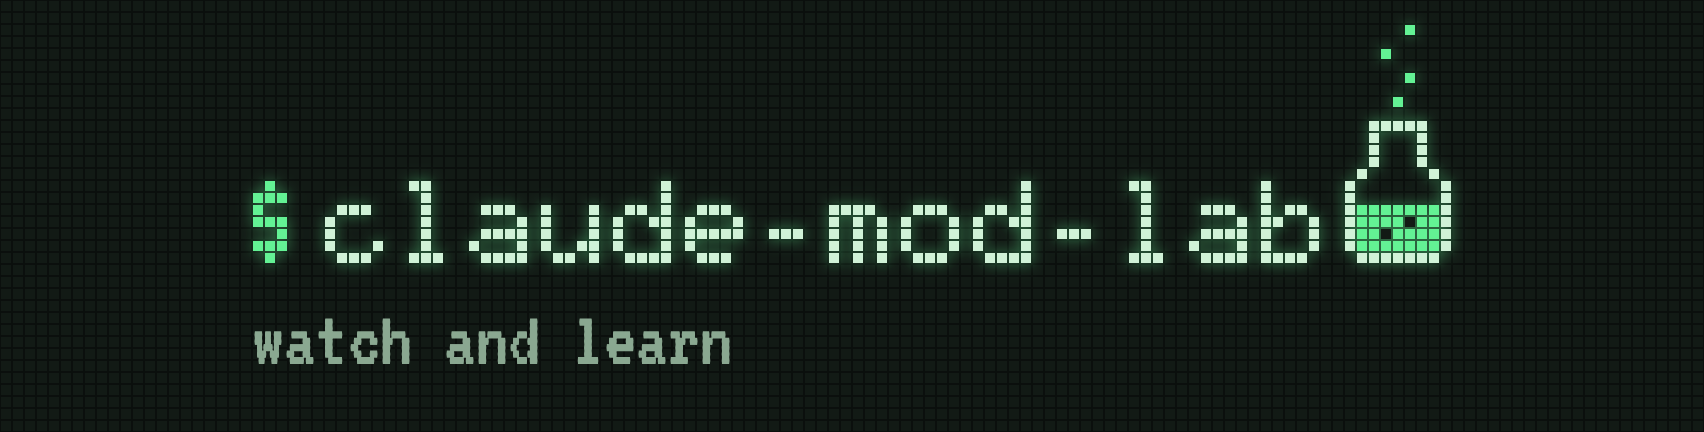
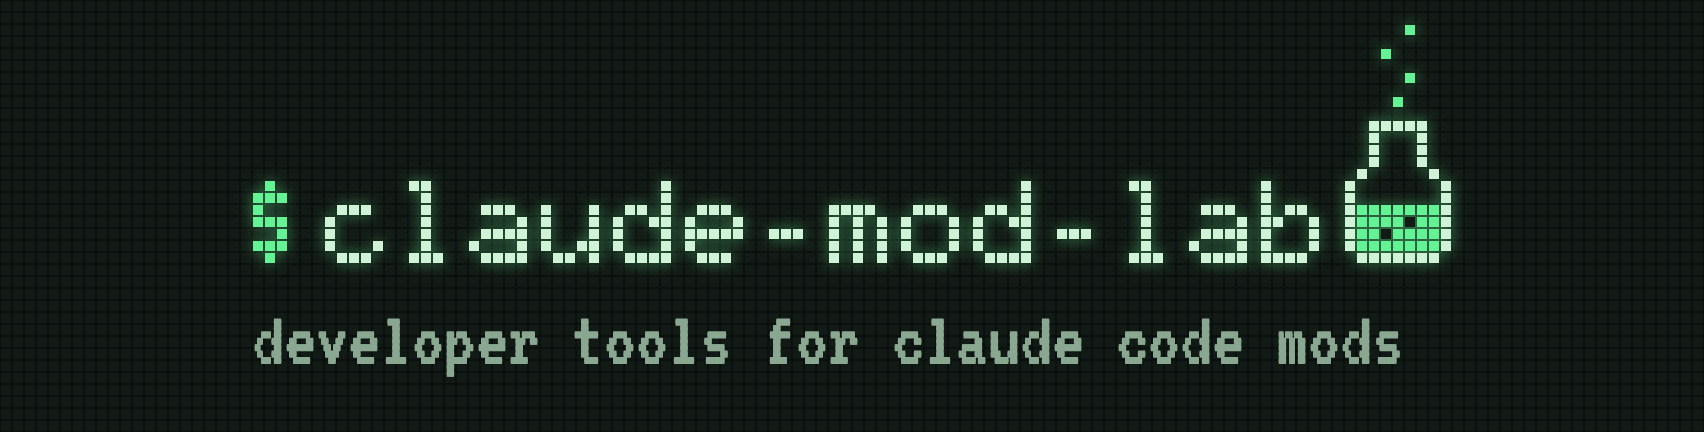
docs: update image assets

Changed region(s): [[0.1244, 0.7222, 0.8398, 0.8727]]

diff --git a/README.md b/README.md
@@ -5,7 +5,7 @@
 </picture>
 </p>
 
-A comprehensive workbench for Claude Code mods. Explore the mod API, trace the interaction of mods in a live session, and learn how to build your own mods from the ground up. "Developer tools" for Claude Code mods.
+A comprehensive workbench for Claude Code mods. Explore the mod API, trace the interaction of mods in a live session, and learn how to build your own mods from the ground up.
 
 ## Quickstart
 
